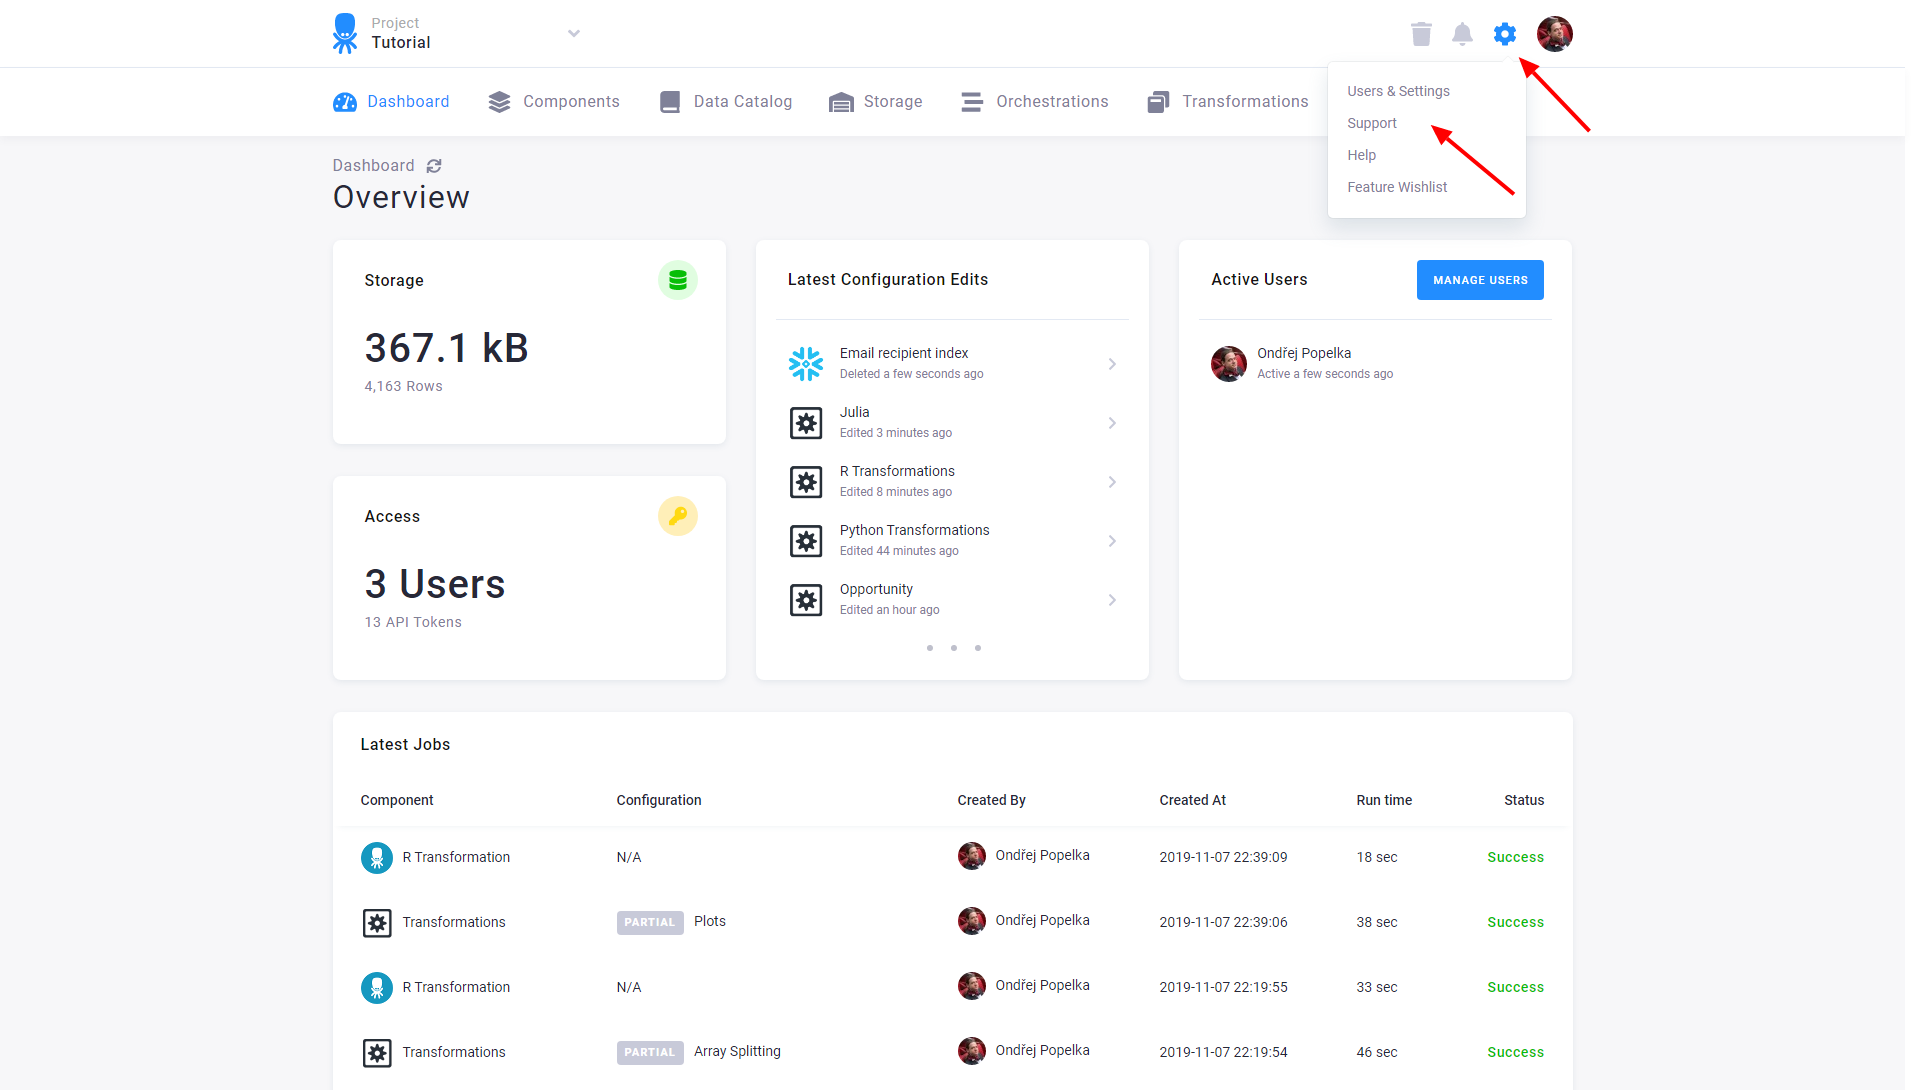
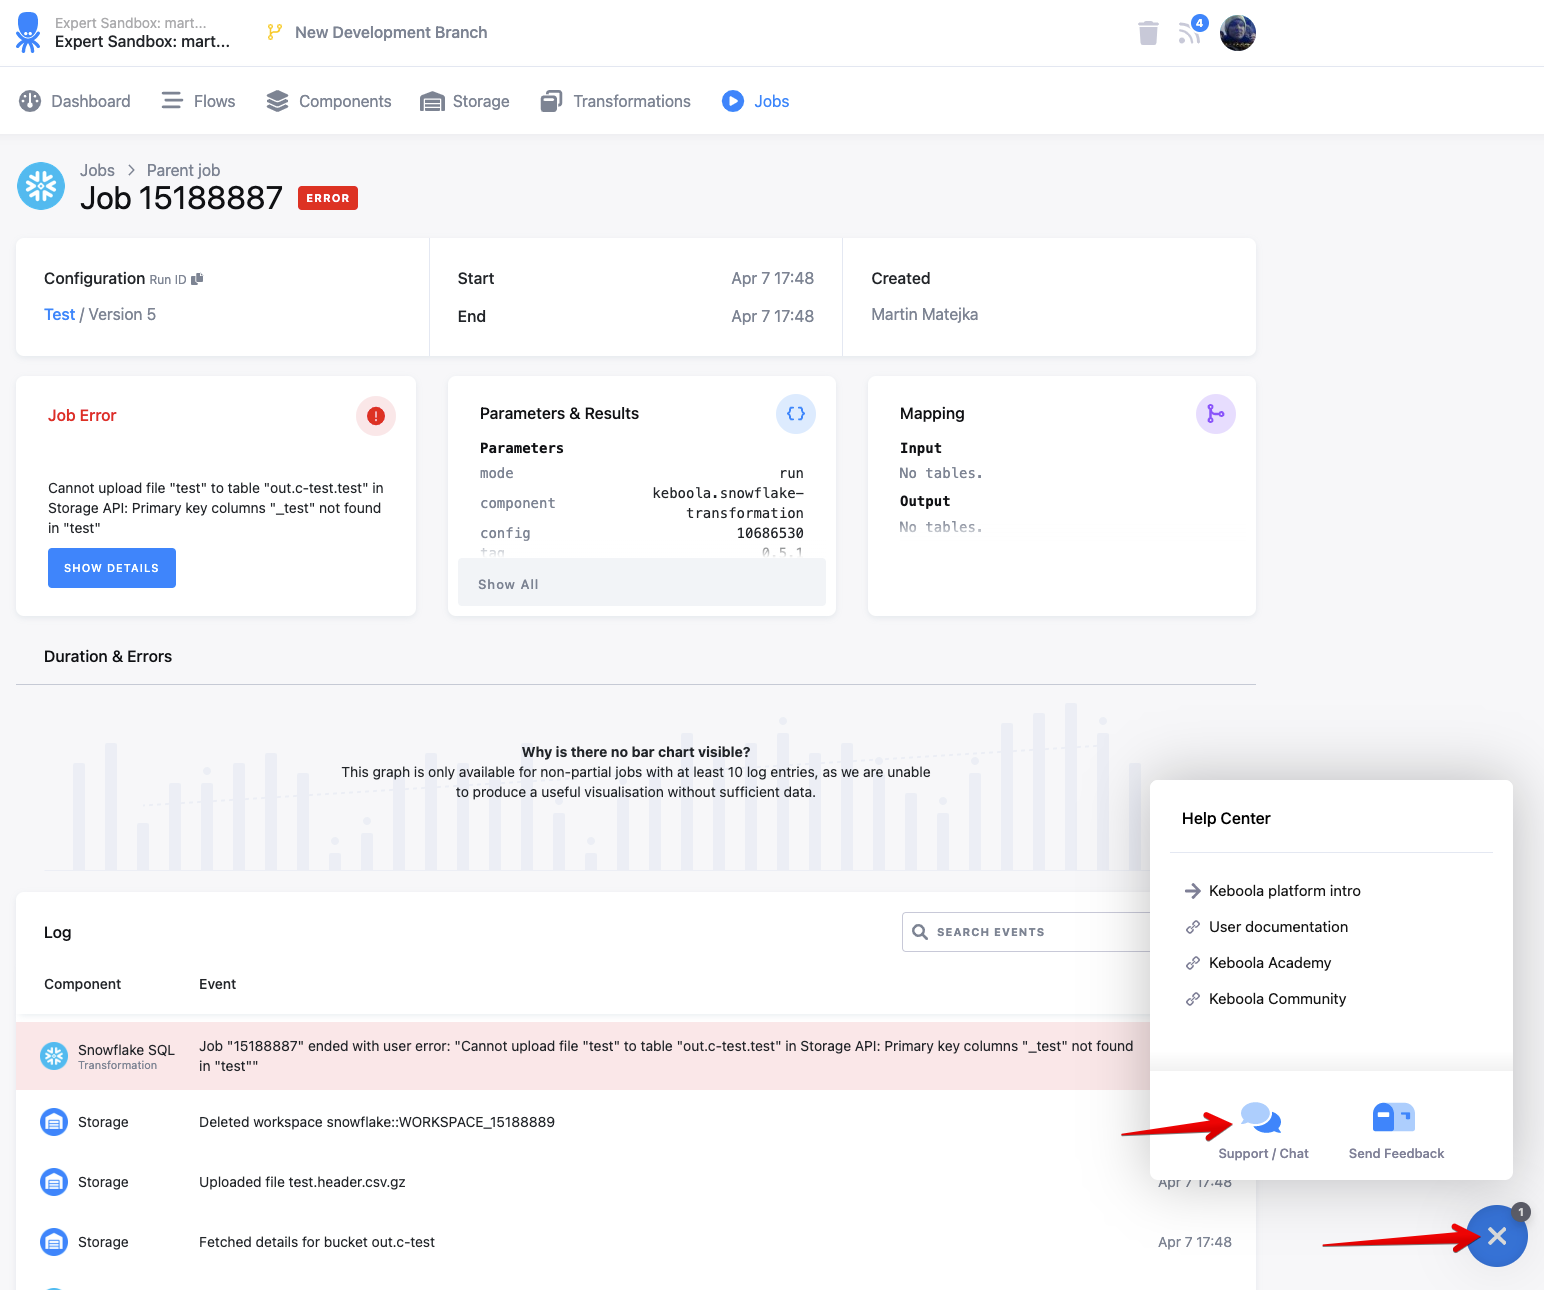
Updating support page in docs
Support už se nekontaktuje přes link v settings, tak to upravuju n aktuální stav.

diff --git a/management/support/index.md b/management/support/index.md
@@ -7,7 +7,7 @@ permalink: /management/support/
 {:toc}
 
 There are multiple ways to obtain support from within your project.
-First and foremost, there is the **Support** link in settings in the top menu. Click it and fill in a form
+First and foremost, there is a button at bottom right of your project. Click it, select **Support / Chat** and fill in the form
 to create a ticket, which will reach your maintainer.
 
 {: .image-popup}
